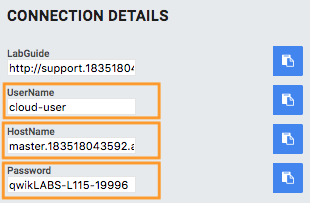
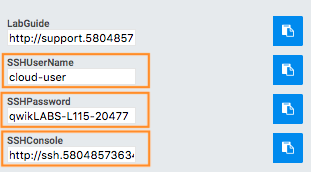
move instructions to SSH console based login

diff --git a/docs/index.html b/docs/index.html
@@ -64,7 +64,7 @@
         
             <li><a class="toctree-l3" href="#4-wait-for-lab-provisioning-to-complete">4. Wait for lab provisioning to complete</a></li>
         
-            <li><a class="toctree-l3" href="#5-access-the-lab-environment-via-ssh">5. Access the lab environment via SSH</a></li>
+            <li><a class="toctree-l3" href="#5-access-the-lab-environment-via-web-based-ssh">5. Access the lab environment via (web-based) SSH</a></li>
         
             <li><a class="toctree-l3" href="#6-how-to-access-your-personalized-lab-guide">6. How to access your personalized lab guide</a></li>
         
@@ -142,14 +142,20 @@ You should have initially received 40 credits as part of registering for this la
 <p>In total provisioning usually takes about 15 minutes and should not exceed 20 minutes.
 When your lab infrastructure is ready this progress bar disappears. Upon launch you will see a button to end your lab session and a countdown until automatic shutdown:</p>
 <p><img alt="Lab timer" src="./img/qwiklab-end-button.png" /></p>
-<h2 id="5-access-the-lab-environment-via-ssh">5. Access the lab environment via SSH</h2>
+<h2 id="5-access-the-lab-environment-via-web-based-ssh">5. Access the lab environment via (web-based) SSH</h2>
 <p>Once the lab is provisioned on the left side of the screen credential information will appear below <strong>CONNECTION DETAILS</strong>:</p>
 <p><img alt="Lab Credentials" src="./img/qwiklab-lab-credentials.png" /></p>
-<p>You use the provided <strong>host name</strong>, <strong>user name</strong> and <strong>password</strong> to log in via SSH, like so:</p>
+<p>Note the <strong>SSHUserName</strong> and <strong>SSHPassword</strong>. Navigate to the provided URL in the field <strong>SSHConsole</strong> to launch the web-based SSH console. This is a browser-based SSH client that is hosted in your lab environment for convenient access to the lab.
+Enter the previously collected user name and password when prompted in your browser.</p>
+<p><img alt="Lab Credentials" src="./img/webssh-login.png" /></p>
+<p>If you mistype your password the screen will stay black and you don't get a prompt.</p>
+<p><img alt="Lab Credentials" src="./img/webssh-login-fail.png" /></p>
+<p>In this case restart your browser to get another prompt again. When done correctly it should look like this:</p>
+<p><img alt="Lab Credentials" src="./img/webssh-login-success.png" /></p>
+<p>Alternatively, if you prefer your own SSH client you can do that too. Any SSH client is ok (OpenSSH, PuTTY, etc). Please note that your network / VPN must permit outbound traffic to TCP port 22 - this might be blocked on corporate machines.</p>
 <pre><code>ssh -l &lt;UserName&gt; &lt;HostName&gt;
 </code></pre>
 
-<p>Any SSH client is ok (OpenSSH, PuTTY, etc). Please note that your network / VPN must permit outbound traffic to TCP port 22 - this might be blocked on corporate machines.</p>
 <p>When logged in with the password provided, you end up on the OpenShift Master node from where the lab guide will run you through the exercises.</p>
 <h2 id="6-how-to-access-your-personalized-lab-guide">6. How to access your personalized lab guide</h2>
 <p>This lab features a personalized lab guide which is ready as soon as the environment is provisioned. A field called "LabGuide" will appear on the left hand side of your screen as soon as that is the case.</p>
@@ -200,5 +206,5 @@ It will walk you through the rest of the lab show you how to access your environ
 
 <!--
 MkDocs version : 0.17.3
-Build Date UTC : 2018-05-16 15:58:10
+Build Date UTC : 2018-05-23 16:22:20
 -->

diff --git a/labguide/qwiklab-index/docs/index.md b/labguide/qwiklab-index/docs/index.md
@@ -49,19 +49,30 @@ When your lab infrastructure is ready this progress bar disappears. Upon launch 
 
 ![Lab timer](img/qwiklab-end-button.png)
 
-## 5. Access the lab environment via SSH
+## 5. Access the lab environment via (web-based) SSH
 
 Once the lab is provisioned on the left side of the screen credential information will appear below **CONNECTION DETAILS**:
 
 ![Lab Credentials](img/qwiklab-lab-credentials.png)
 
-You use the provided **host name**, **user name** and **password** to log in via SSH, like so:
+Note the **SSHUserName** and **SSHPassword**. Navigate to the provided URL in the field **SSHConsole** to launch the web-based SSH console. This is a browser-based SSH client that is hosted in your lab environment for convenient access to the lab.
+Enter the previously collected user name and password when prompted in your browser.
+
+![Lab Credentials](img/webssh-login.png)
+
+If you mistype your password the screen will stay black and you don't get a prompt.
+
+![Lab Credentials](img/webssh-login-fail.png)
+
+In this case restart your browser to get another prompt again. When done correctly it should look like this:
+
+![Lab Credentials](img/webssh-login-success.png)
+
+Alternatively, if you prefer your own SSH client you can do that too. Any SSH client is ok (OpenSSH, PuTTY, etc). Please note that your network / VPN must permit outbound traffic to TCP port 22 - this might be blocked on corporate machines.
 
 ~~~
 ssh -l <UserName> <HostName>
 ~~~
-
-Any SSH client is ok (OpenSSH, PuTTY, etc). Please note that your network / VPN must permit outbound traffic to TCP port 22 - this might be blocked on corporate machines.
 
 When logged in with the password provided, you end up on the OpenShift Master node from where the lab guide will run you through the exercises.
 
